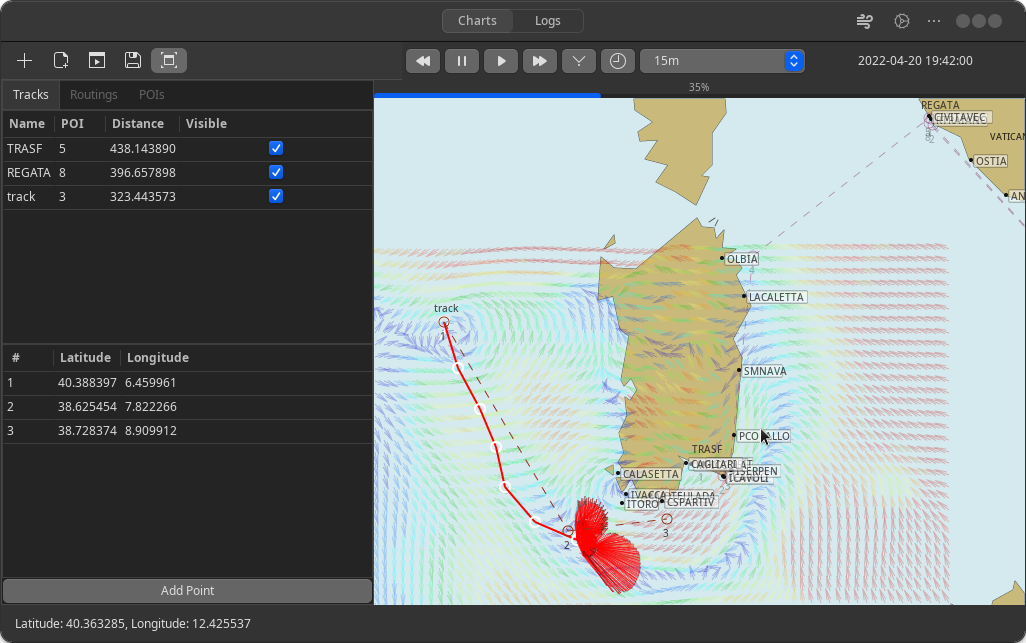
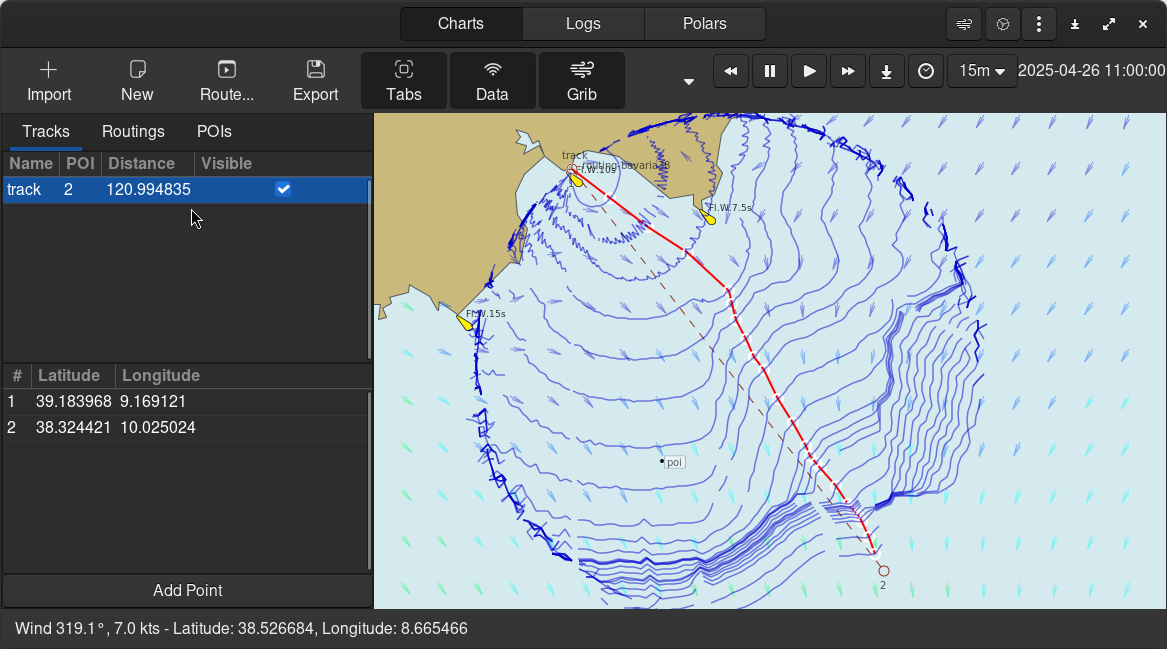
quickstart tutorial and updated screenshoot

diff --git a/docs/source/docs/quickstart.md b/docs/source/docs/quickstart.md
@@ -1,4 +1,84 @@
 Quickstart
 ====================================
 
-Test
+Installation
+------------
+
+Download the latest release appimage from [github releases](https://github.com/dakk/gweatherrouting/releases).
+At the moment we only offer an appimage build for linux x86_64, but we will provide soon builds for other systems.
+
+<img src="../_static/images/quickstart/1.png">
+
+You can install gweatherrouting from source source, following the instructions that you can find in the repository [README.md](https://github.com/dakk/gweatherrouting).
+
+After downloading the appimage, make it executable:
+
+```
+chmod +x GWeatherRouting-linux-x86_64.AppImage
+```
+
+
+First run
+---------
+
+During the first run, gww will ask you to download some files:
+- Base world countourn lines
+- OpenSeaMap data: contains lighthouses, buoys, and other maritime signals taken from the [openseamap project](https://openseamap.org/index.php?id=openseamap&no_cache=1)
+
+<img src="../_static/images/quickstart/2.png">
+
+After these download, gww is ready to be used.
+
+
+<img src="../_static/images/quickstart/3.png">
+
+
+Downloading a grib file
+-----------------------
+
+1. Click on the grib manager button
+
+<img src="../_static/images/quickstart/4.png">
+
+2. Select a region, right-click and download 
+
+<img src="../_static/images/quickstart/5.png">
+
+3. After closing the grib manager, the grib file is loaded into the map. You can freely inspect the wind for different time slots.
+
+<img src="../_static/images/quickstart/6.gif">
+
+
+
+Track creation and editing
+--------------------------
+
+To create a track and add a point to it, right-click in a point of the map and press "Add to Track". This
+will create a new track, adding the clicked point to it.
+
+<img src="../_static/images/quickstart/7.png">
+
+In order to add new track points, right-click on another point of the map and press "Add to Track" as before.
+On the left pane, you will se the list of the tracks, and the list of track point for each track. 
+You can:
+- Remove or Export tracks, by right-clicking on a track
+- Remove, Reorder or Duplicate a track point, by right-clicking on a track point
+
+
+<img src="../_static/images/quickstart/8.png">
+
+
+Create a routing
+----------------
+
+Now that we have a track and a grib, creating a routing is very easy. Just click on "Route..." button.
+Select a polar file, tune other settings and press run.
+
+<img src="../_static/images/quickstart/9.png">
+
+The software will calculate the isochrones tree, finding the fastest route. After calculation, the route is displayed in red.
+The green point on the routing shows the boat position at different times. You can navigate the simulation through time, using
+time control's buttons.
+
+
+<img src="../_static/images/quickstart/10.gif">

diff --git a/docs/source/index.md b/docs/source/index.md
@@ -35,15 +35,15 @@ h3:not(#hero h3) {
     <p>GWeatherRouting is an open-source sailing routing and navigation software written using Python and Gtk4.</p>
     <div class="homepage-button-container">
       <div class="homepage-button-container-row">
-          <a href="https://github.com/dakk/gweatherrouting/releases" class="homepage-button primary-button">Download</a>
+          <a href="https://github.com/dakk/gweatherrouting/releases/download/v0.2-rc0/GWeatherRouting-linux-x86_64.AppImage" class="homepage-button primary-button"><i class="fa fa-download"></i> Download Appimage</a>
       </div>
       <div class="homepage-button-container-row">
-          <a href="./docs/index.html" class="homepage-button-link">See Documentation →</a>
+          <a href="./docs/quickstart.html" class="homepage-button-link">Quickstart →</a>
       </div>
     </div>
   </div>
   <div id="hero-right">
-    <img src="./_static/images/s3.png">
+    <img src="./_static/images/quickstart/10.gif">
   </div>
 </div>
 

diff --git a/README.md b/README.md
@@ -6,9 +6,10 @@
 
 GWeatherRouting is an open-source sailing routing and navigation software written using Python and Gtk4.
 
-![Routing in progress](https://github.com/dakk/gweatherrouting/raw/master/docs/source/_static/images/s3.png)
+![Routing in progress](https://github.com/dakk/gweatherrouting/raw/master/docs/source/_static/images/quckstart/10.gif)
 
-![Routing done](https://github.com/dakk/gweatherrouting/raw/master/docs/source/_static/images/s5.png)
+<!-- ![Routing in progress](https://github.com/dakk/gweatherrouting/raw/master/docs/source/_static/images/s3.png) -->
+<!-- ![Routing done](https://github.com/dakk/gweatherrouting/raw/master/docs/source/_static/images/s5.png) -->
 
 ![Chart detail](https://github.com/dakk/gweatherrouting/raw/master/docs/source/_static/images/s6.png)
 

diff --git a/docs/source/docs/index.rst b/docs/source/docs/index.rst
@@ -21,9 +21,7 @@ Sections
 .. toctree::
    :maxdepth: 2
 
-   installation
    quickstart
-   routing
 
 
 
